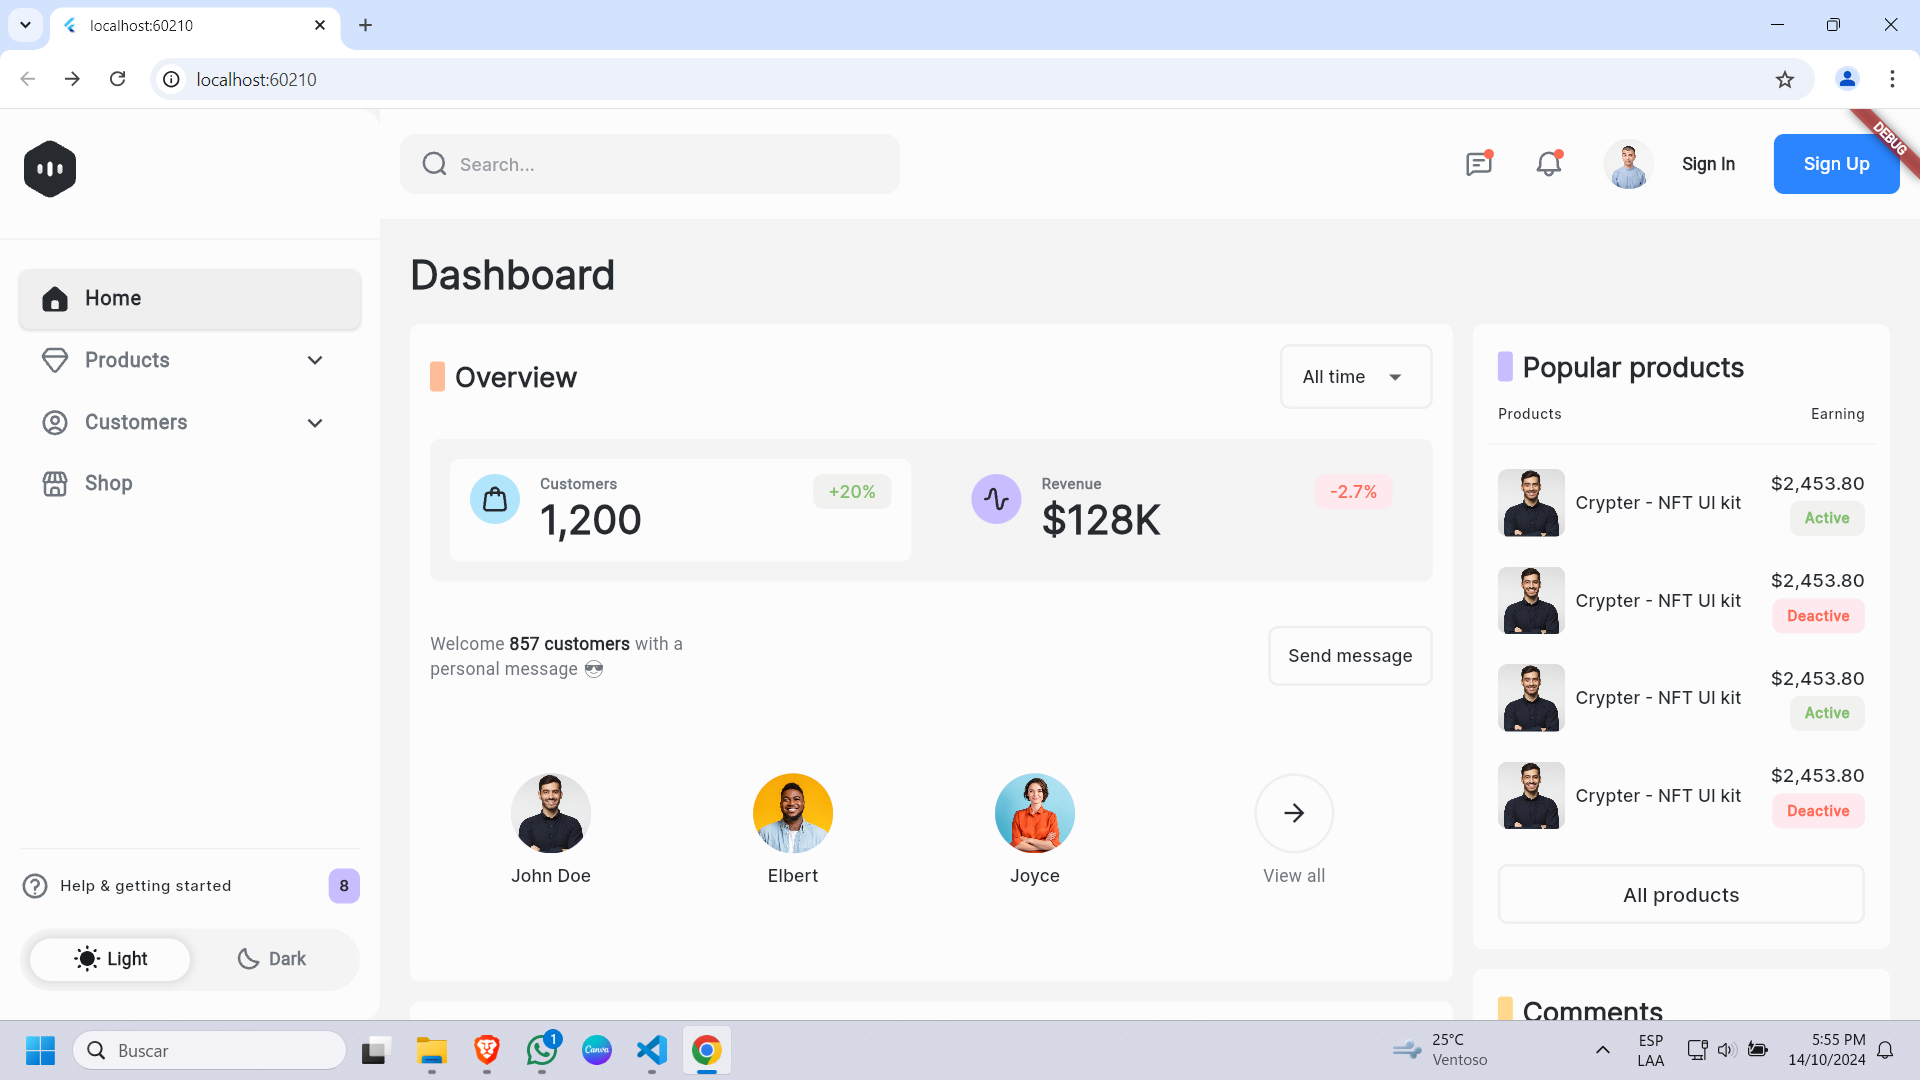
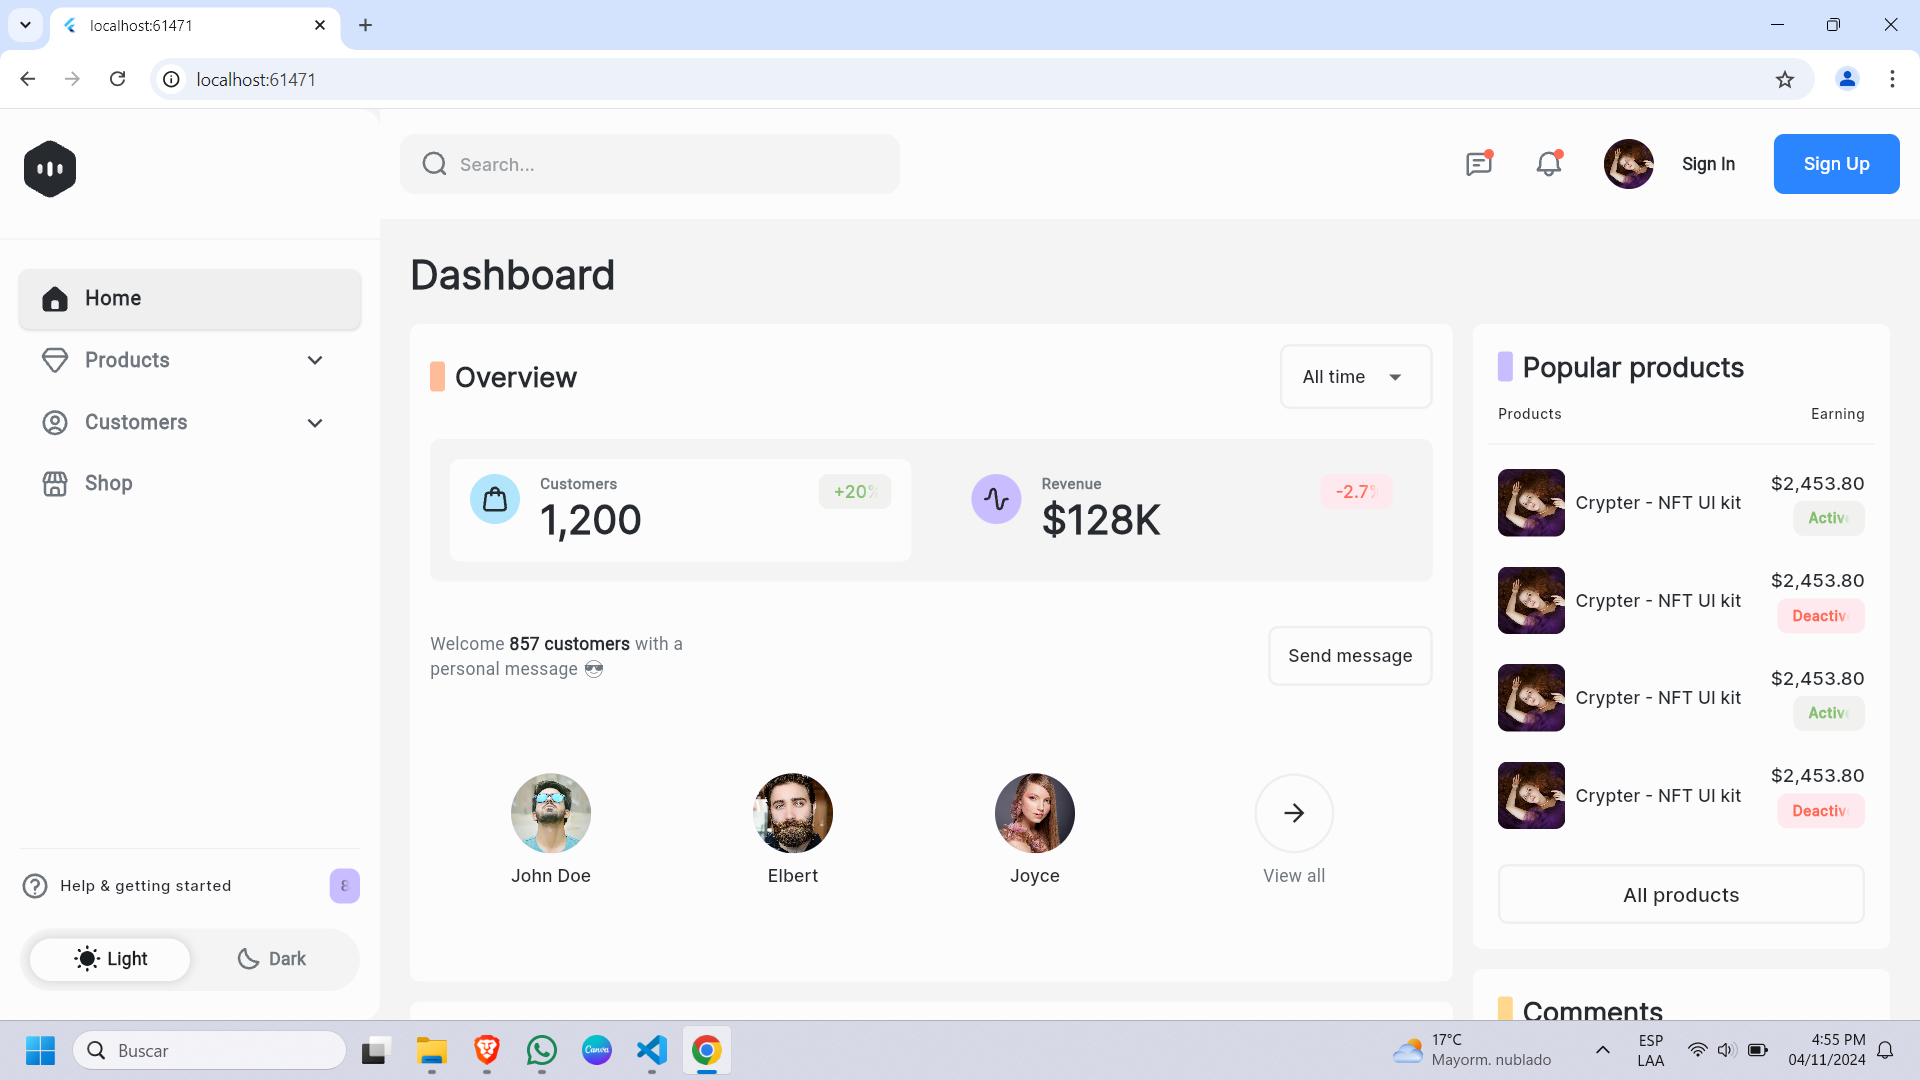
update_changes

diff --git a/lib/shared/navigation/routes.dart b/lib/shared/navigation/routes.dart
@@ -1,91 +1,17 @@
 import 'package:core_dashboard/pages/authentication/register_page.dart';
 import 'package:core_dashboard/pages/authentication/sign_in_page.dart';
 import 'package:core_dashboard/pages/entry_point.dart';
-import 'package:go_router/go_router.dart';
+import 'package:flutter/material.dart';
 
-final routerConfig = GoRouter(
-  initialLocation: '/',
-  routes: [
-    GoRoute(
-      path: '/',
-      builder: (context, state) => const EntryPoint(),
-    ),
-    GoRoute(
-      path: '/sign-in',
-      builder: (context, state) => const SignInPage(),
-    ),
-    GoRoute(
-      path: '/register',
-      builder: (context, state) => const RegisterPage(),
-    ),
-    // GoRoute(
-    //   path: '/entry-point',
-    //   builder: (context, state) => const EntryPoint(),
-    // ),
 
-    // GoRoute(
-    //   path: '/forgot-password',
-    //   builder: (context, state) => const ForgotPasswordScreen(),
-    // ),
-    // GoRoute(
-    //   path: '/password-confirmation/:email',
-    //   builder: (context, state) {
-    //     final email = state.pathParameters['email'];
-    //     if (email == null) {
-    //       throw Exception('Recipe ID is missing');
-    //     }
-    //     return PasswordConfirmationForm(email: email);
-    //   },
-    // ),
-    // GoRoute(
-    //   path: '/resend-email-verification',
-    //   builder: (context, state) => const EmailResendScreen(),
-    // ),
-    // GoRoute(
-    //   path: '/user-confirmation/:email',
-    //   builder: (context, state) {
-    //     final email = state.pathParameters['email'];
-    //     if (email == null) {
-    //       throw Exception('Recipe ID is missing');
-    //     }
-    //     return UserConfirmationForm(email: email);
-    //   },
-    // ),
-    // GoRoute(
-    //   path: '/favorite',
-    //   builder: (context, state) => const FavoriteScreen(),
-    // ),
-    // GoRoute(
-    //   path: '/recipe/:id',
-    //   builder: (context, state) {
-    //     final id = state.pathParameters['id'];
-    //     if (id == null) {
-    //       throw Exception('Recipe ID or Favorite state is missing');
-    //     }
-    //     return RecipeDetailsScreen(
-    //       id: id,
-    //     );
-    //   },
-    // ),
-    // GoRoute(
-    //   path: '/profile',
-    //   builder: (context, state) => const ProfileScreen(),
-    // ),
-    // GoRoute(
-    //   path: '/edit-profile',
-    //   builder: (context, state) => const EditProfileScreen(),
-    // ),
-    // GoRoute(
-    //   path: '/all-recipes',
-    //   builder: (context, state) => const AllRecipesScreen(),
-    // ),
-    // GoRoute(
-    //   path: '/search-recipes',
-    //   builder: (context, state) => const SearchScreen(),
-    // ),
-    // GoRoute(
-    //   path: '/notifications',
-    //   builder: (context, state) => const NotificationsScreen(),
-    // ),
-  ],
-);
+class Routes {
+  static const String entryPoint = '/';
+  static const String signIn = '/sign-in';
+  static const String register = '/register';
+}
+
+Map<String, WidgetBuilder> routerConfig = {
+  Routes.entryPoint: (context) => const EntryPoint(),
+  Routes.signIn: (context) => const SignInPage(),
+  Routes.register: (context) => const RegisterPage(),
+};

diff --git a/lib/shared/widgets/header.dart b/lib/shared/widgets/header.dart
@@ -1,8 +1,7 @@
 import 'package:core_dashboard/responsive.dart';
+import 'package:core_dashboard/shared/navigation/routes.dart';
 import 'package:flutter/material.dart';
 import 'package:flutter_svg/flutter_svg.dart';
-import 'package:go_router/go_router.dart';
-
 import '../../theme/app_colors.dart';
 import '../constants/defaults.dart';
 import '../constants/ghaps.dart';
@@ -92,11 +91,12 @@ class Header extends StatelessWidget {
                       onPressed: () {},
                       icon: const CircleAvatar(
                         backgroundImage: NetworkImage(
-                            "https://cdn.create.vista.com/api/media/small/339818716/stock-photo-doubtful-hispanic-man-looking-with-disbelief-expression"),
+                            "https://cdn.pixabay.com/photo/2018/04/07/19/39/woman-3299379_1280.jpg"),
                       ),
                     ),
                   TextButton(
-                    onPressed: () => context.go('/sign-in'),
+                    onPressed: () =>
+                        Navigator.pushNamed(context, Routes.signIn),
                     style: TextButton.styleFrom(
                       foregroundColor:
                           Theme.of(context).textTheme.titleLarge!.color,
@@ -114,7 +114,8 @@ class Header extends StatelessWidget {
                   ),
                   gapW16,
                   ElevatedButton(
-                    onPressed: () => context.go('/register'),
+                    onPressed: () =>
+                        Navigator.pushNamed(context, Routes.register),
                     child: const Text("Sign Up"),
                   ),
                 ],

diff --git a/web/index.html b/web/index.html
@@ -10,37 +10,16 @@
   <!-- iOS meta tags & icons -->
   <meta name="apple-mobile-web-app-capable" content="yes">
   <meta name="apple-mobile-web-app-status-bar-style" content="black">
-  <meta name="apple-mobile-web-app-title" content="core_dashboard">
+  <meta name="apple-mobile-web-app-title" content="web_responsive">
   <link rel="apple-touch-icon" href="icons/Icon-192.png">
 
   <!-- Favicon -->
   <link rel="icon" type="image/png" href="favicon.png"/>
 
-  <title>core_dashboard</title>
+  <title>web_responsive</title>
   <link rel="manifest" href="manifest.json">
-
-  <script>
-    // The value below is injected by flutter build, do not touch.
-    const serviceWorkerVersion = '{{flutter_service_worker_version}}';
-  </script>
-  <!-- This script adds the flutter initialization JS code -->
-  <script src="flutter.js" defer></script>
 </head>
 <body>
-  <script>
-    window.addEventListener('load', function(ev) {
-      // Download main.dart.js
-      _flutter.loader.load({
-        serviceWorker: {
-          serviceWorkerVersion: serviceWorkerVersion,
-        },
-        onEntrypointLoaded: function(engineInitializer) {
-          engineInitializer.initializeEngine().then(function(appRunner) {
-            appRunner.runApp();
-          });
-        }
-      });
-    });
-  </script>
+  <script src="flutter_bootstrap.js" async></script>
 </body>
 </html>

diff --git a/lib/pages/dashboard/widgets/customers_overview.dart b/lib/pages/dashboard/widgets/customers_overview.dart
@@ -49,20 +49,20 @@ class CoustomersOverview extends StatelessWidget {
             CustomerAvatar(
               name: "John Doe",
               imageSrc:
-                  "https://t3.ftcdn.net/jpg/02/43/12/34/360_F_243123463_zTooub557xEWABDLk0jJklDyLSGl2jrr.jpg",
+                  "https://cdn.pixabay.com/photo/2017/04/01/21/06/portrait-2194457_1280.jpg",
               onPressed: () {},
             ),
             CustomerAvatar(
               name: "Elbert",
               imageSrc:
-                  "https://t3.ftcdn.net/jpg/02/99/04/20/360_F_299042079_vGBD7wIlSeNl7vOevWHiL93G4koMM967.jpg",
+                  "https://cdn.pixabay.com/photo/2016/11/21/12/42/beard-1845166_1280.jpg",
               onPressed: () {},
             ),
             if (!Responsive.isMobile(context))
               CustomerAvatar(
                 name: "Joyce",
                 imageSrc:
-                    "https://t4.ftcdn.net/jpg/03/83/25/83/360_F_383258331_D8imaEMl8Q3lf7EKU2Pi78Cn0R7KkW9o.jpg",
+                    "https://cdn.pixabay.com/photo/2018/01/02/09/47/woman-3055841_1280.jpg",
                 onPressed: () {},
               ),
             Column(

diff --git a/lib/pages/authentication/sign_in_page.dart b/lib/pages/authentication/sign_in_page.dart
@@ -2,11 +2,10 @@ import 'package:core_dashboard/shared/constants/config.dart';
 import 'package:core_dashboard/shared/constants/defaults.dart';
 import 'package:core_dashboard/shared/constants/extensions.dart';
 import 'package:core_dashboard/shared/constants/ghaps.dart';
+import 'package:core_dashboard/shared/navigation/routes.dart';
 import 'package:core_dashboard/theme/app_colors.dart';
 import 'package:flutter/material.dart';
 import 'package:flutter_svg/flutter_svg.dart';
-import 'package:go_router/go_router.dart';
-
 import 'widgets/social_login_button.dart';
 
 class SignInPage extends StatelessWidget {
@@ -136,7 +135,7 @@ class SignInPage extends StatelessWidget {
                               color: AppColors.titleLight,
                             ),
                           ),
-                          onPressed: () => context.go('/register'),
+                          onPressed: () => Navigator.pushNamed(context, Routes.register),
                           child: const Text('Sign up'),
                         ),
                       ],

diff --git a/lib/pages/authentication/register_page.dart b/lib/pages/authentication/register_page.dart
@@ -1,11 +1,10 @@
 import 'package:core_dashboard/responsive.dart';
 import 'package:core_dashboard/shared/constants/config.dart';
 import 'package:core_dashboard/shared/constants/defaults.dart';
+import 'package:core_dashboard/shared/navigation/routes.dart';
 import 'package:core_dashboard/theme/app_colors.dart';
 import 'package:flutter/material.dart';
 import 'package:flutter_svg/flutter_svg.dart';
-import 'package:go_router/go_router.dart';
-
 import 'widgets/signup_benefits.dart';
 import 'widgets/signup_form.dart';
 
@@ -83,7 +82,8 @@ class RegisterPage extends StatelessWidget {
                                   color: AppColors.titleLight,
                                 ),
                               ),
-                              onPressed: () => context.go('/sign-in'),
+                              onPressed: () =>
+                                  Navigator.pushNamed(context, Routes.signIn),
                               child: const Text('Sign in'),
                             ),
                           ],

diff --git a/lib/main.dart b/lib/main.dart
@@ -3,6 +3,7 @@ import 'package:core_dashboard/theme/app_theme.dart';
 import 'package:flutter/material.dart';
 
 void main() {
+  WidgetsFlutterBinding.ensureInitialized();
   runApp(const MainApp());
 }
 
@@ -11,10 +12,11 @@ class MainApp extends StatelessWidget {
 
   @override
   Widget build(BuildContext context) {
-    return MaterialApp.router(
+    return MaterialApp(
       debugShowCheckedModeBanner: false,
       theme: AppTheme.light(context),
-      routerConfig: routerConfig,
+      initialRoute: Routes.entryPoint,
+      routes: routerConfig,
     );
   }
 }

diff --git a/lib/shared/widgets/sidemenu/sidebar.dart b/lib/shared/widgets/sidemenu/sidebar.dart
@@ -141,7 +141,7 @@ class Sidebar extends StatelessWidget {
                       name: 'Tran Mau Tri Tam',
                       designation: 'Visual Designer',
                       imageSrc:
-                          'https://cdn.create.vista.com/api/media/small/339818716/stock-photo-doubtful-hispanic-man-looking-with-disbelief-expression',
+                          'https://cdn.pixabay.com/photo/2018/04/07/19/39/woman-3299379_1280.jpg',
                     ),
                   gapH8,
                   const Divider(),

diff --git a/lib/pages/dashboard/widgets/tips_item.dart b/lib/pages/dashboard/widgets/tips_item.dart
@@ -92,7 +92,7 @@ class TipsItem extends StatelessWidget {
                           width: 20,
                           radius: AppDefaults.borderRadius * 0.25,
                           imageSrc:
-                              'https://t4.ftcdn.net/jpg/03/83/25/83/360_F_383258331_D8imaEMl8Q3lf7EKU2Pi78Cn0R7KkW9o.jpg',
+                              'https://cdn.pixabay.com/photo/2018/04/07/19/39/woman-3299379_1280.jpg',
                         ),
                         gapW8,
                         Text(time),

diff --git a/lib/pages/dashboard/widgets/popular_products.dart b/lib/pages/dashboard/widgets/popular_products.dart
@@ -56,7 +56,7 @@ class PopularProducts extends StatelessWidget {
                 name: 'Crypter - NFT UI kit',
                 price: '\$2,453.80',
                 imageSrc:
-                    'https://t3.ftcdn.net/jpg/02/43/12/34/360_F_243123463_zTooub557xEWABDLk0jJklDyLSGl2jrr.jpg',
+                    'https://cdn.pixabay.com/photo/2018/04/07/19/39/woman-3299379_1280.jpg',
                 isActive: index % 2 == 0,
                 onPressed: () {},
               );
